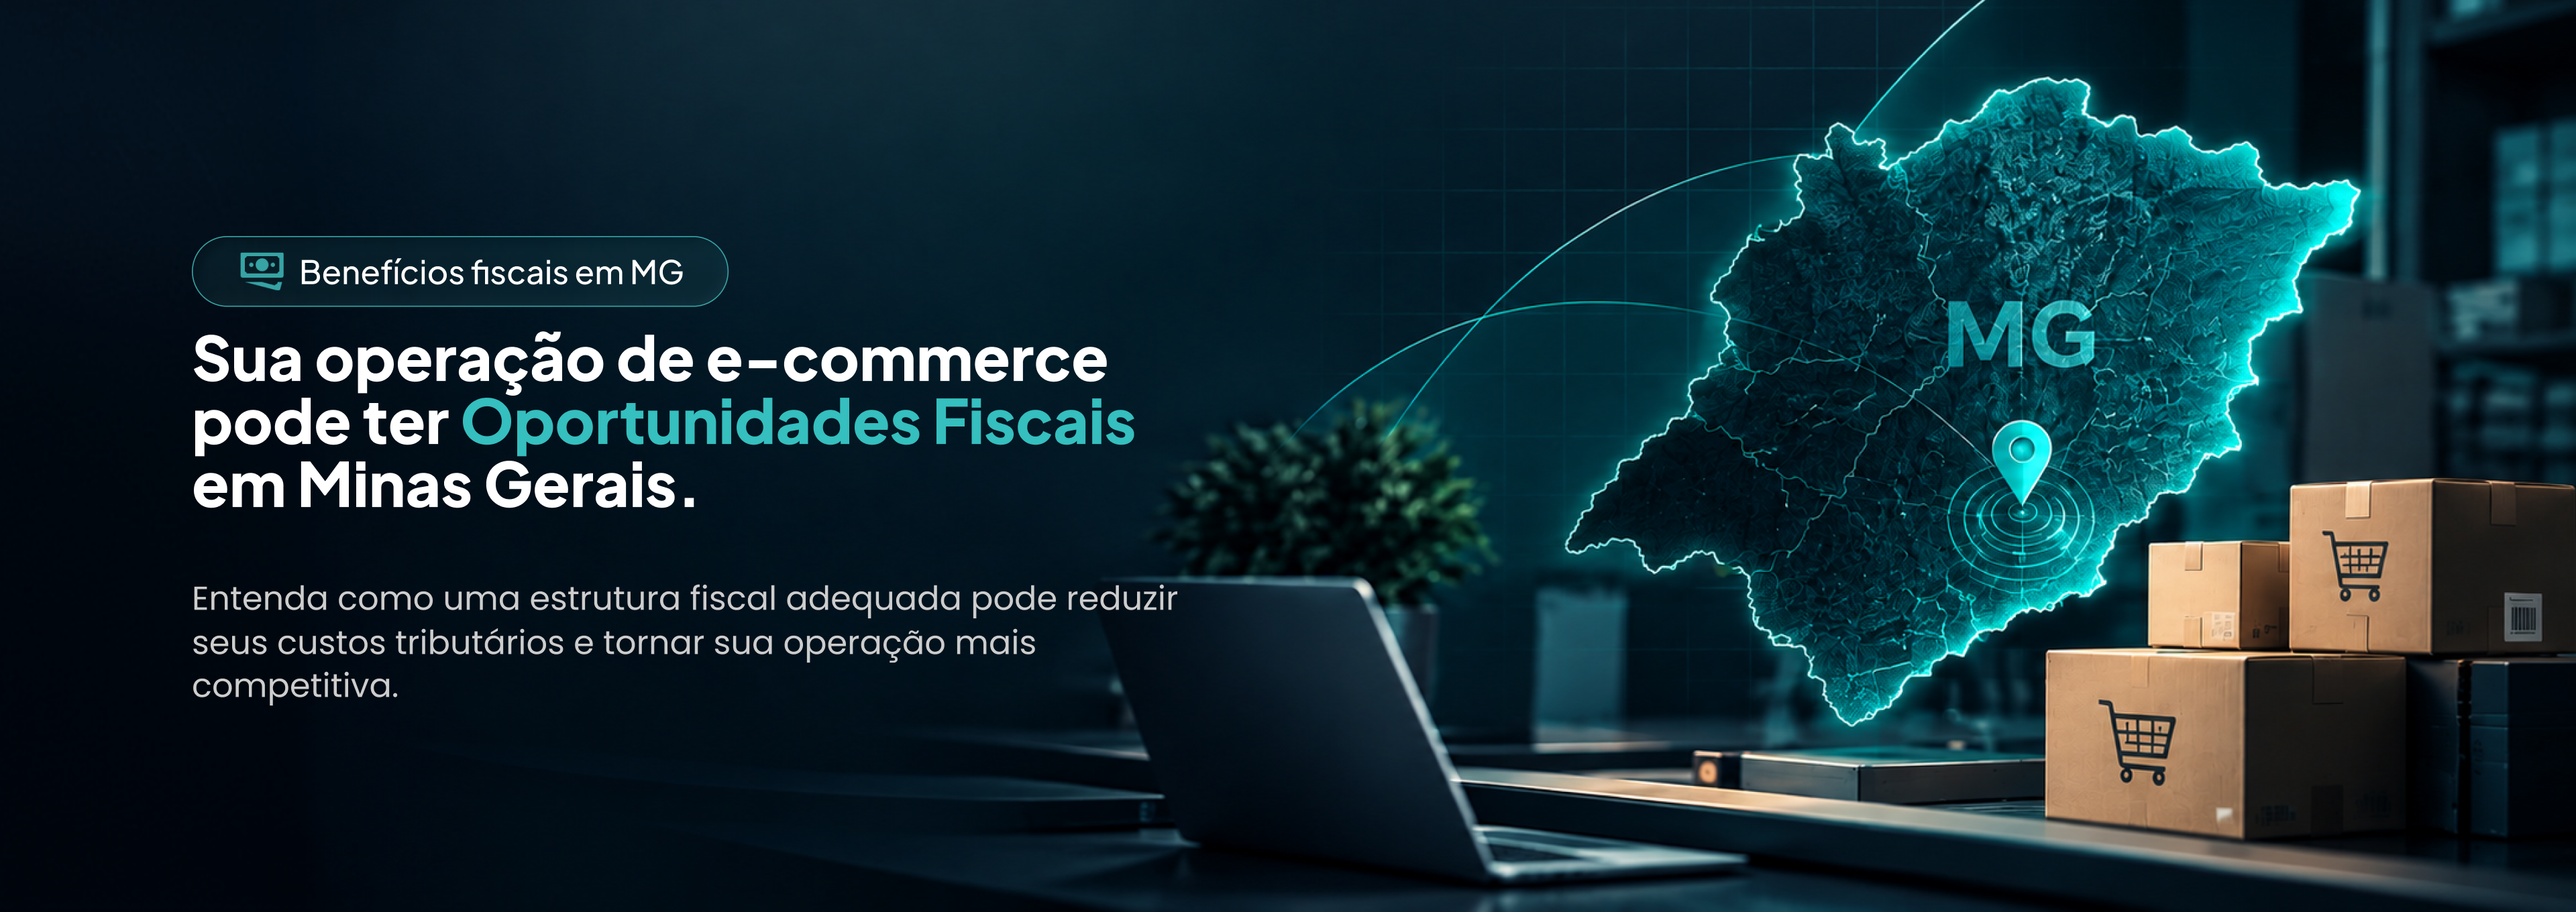
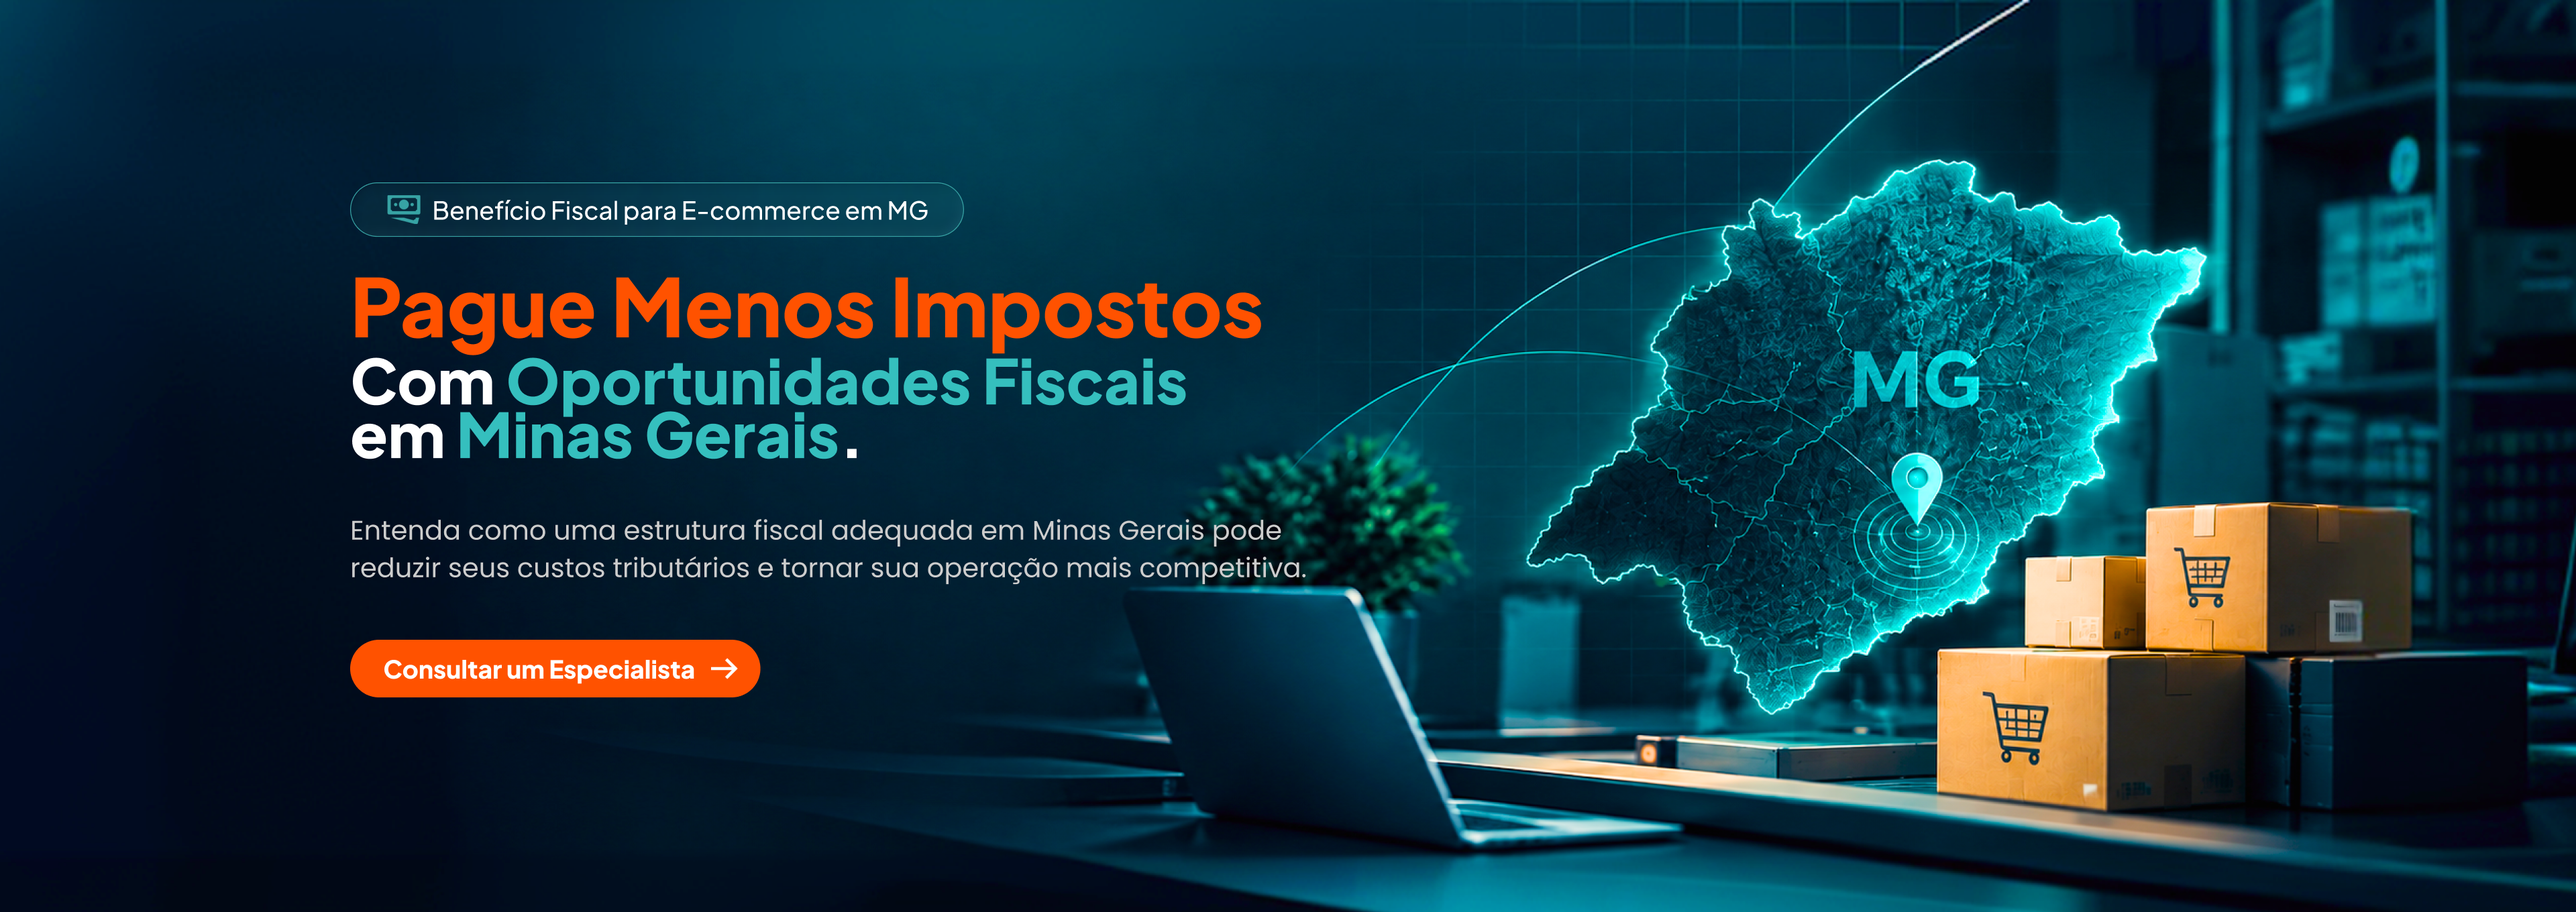
feat: refine hero and WhatsApp entry point

diff --git a/src/app/page.tsx b/src/app/page.tsx
@@ -4,7 +4,7 @@ import { Faq } from "@/components/faq";
 const whatsapp = process.env.NEXT_PUBLIC_WHATSAPP_URL;
 const scheduling = process.env.NEXT_PUBLIC_SCHEDULING_URL;
 const closingWhatsapp = `https://wa.me/5511980883377?text=${encodeURIComponent(
-  "Olá! Quero agendar um diagnóstico gratuito da minha operação de ecommerce.",
+  "Olá! Quero agendar um diagnóstico gratuito da minha operação de E-commerce.",
 )}`;
 
 function Arrow() {
@@ -65,7 +65,7 @@ const expertise = [
 const services = [
   [
     "Contabilidade especializada",
-    "Rotinas contábeis estruturadas para empresas que vivem o ecommerce.",
+    "Rotinas contábeis estruturadas para empresas que vivem o E-commerce.",
   ],
   [
     "Fiscal e tributário",
@@ -135,7 +135,7 @@ export default function HomePage() {
           </div>
           <div
             className="hero-art intro-art"
-            aria-label="Uma operação de ecommerce conectada"
+            aria-label="Uma operação de E-commerce conectada"
           >
             <div className="grid" />
             <div className="orbit orbit-a" />
@@ -184,7 +184,7 @@ export default function HomePage() {
             <div>
               <p className="marker">Conhecimento aplicado à rotina.</p>
               <h2 id="special-title">
-                Seu contador entende de ecommerce ou apenas recebe suas notas?
+                Seu contador entende de E-commerce ou apenas recebe suas notas?
               </h2>
             </div>
             <p>
@@ -216,7 +216,7 @@ export default function HomePage() {
                   A operação inteira, não um problema isolado.
                 </p>
                 <h2 id="whole-title">
-                  Uma operação de ecommerce não deveria ser tratada como uma
+                  Uma operação de E-commerce não deveria ser tratada como uma
                   empresa qualquer.
                 </h2>
               </div>
@@ -292,7 +292,7 @@ export default function HomePage() {
             <div className="seller-card__image">
               <Image
                 src="/images/seller-operator.png"
-                alt="Operação de ecommerce em uma estação de expedição"
+                alt="Operação de E-commerce em uma estação de expedição"
                 fill
                 sizes="(max-width: 800px) calc(100vw - 94px), 34vw"
               />
@@ -329,7 +329,7 @@ export default function HomePage() {
             <div className="seller-card__image">
               <Image
                 src="/images/seller-operation.png"
-                alt="Rotina de expedição com itens de ecommerce organizados"
+                alt="Rotina de expedição com itens de E-commerce organizados"
                 fill
                 sizes="(max-width: 800px) calc(100vw - 94px), 34vw"
               />
@@ -351,19 +351,19 @@ export default function HomePage() {
           <h2 id="authority-title">
             Experiência contábil.
             <br />
-            <em>Vivência de ecommerce.</em>
+            <em>Vivência de E-commerce.</em>
           </h2>
           <div className="facts">
             <div>
-              <b>+20 anos</b>
-              <span>de experiência contábil</span>
+              <b>Com mais de 20 anos</b>
+              <span>em experiência como seller</span>
             </div>
             <div>
-              <b>Seller + Contador</b>
-              <span>visão dos dois lados da operação</span>
+              <b>Seller + Contador + Tributarista</b>
+              <span>visão dos dois lados da sua operação</span>
             </div>
             <div>
-              <b>Ecommerce e Marketplaces</b>
+              <b>E-commerce e Marketplaces</b>
               <span>
                 especialização no ambiente em que nossos clientes vendem
               </span>
@@ -386,7 +386,7 @@ export default function HomePage() {
               Trabalhamos com os principais marketplaces do Brasil.
             </h2>
             <p>
-              Especialização contábil para ecommerce que vende nos principais
+              Especialização contábil para E-commerce que vende nos principais
               canais digitais.
             </p>
           </div>
@@ -518,7 +518,7 @@ export default function HomePage() {
             </a>
             <p>
               Contabilidade especializada para quem vende, integra e cresce no
-              ecommerce.
+              E-commerce.
             </p>
             <div className="socials">
               <a href="#inicio" aria-label="Facebook">
@@ -586,7 +586,7 @@ export default function HomePage() {
             </div>
             <div>
               <h3>Serviços</h3>
-              <a href="#especializacao">Contabilidade para ecommerce</a>
+              <a href="#especializacao">Contabilidade para E-commerce</a>
               <a href="#especializacao">Fiscal e tributário</a>
               <a href="#especializacao">ERP e integrações</a>
               <a href="#especializacao">Marketplaces</a>
@@ -611,6 +611,22 @@ export default function HomePage() {
           </div>
         </div>
       </footer>
+      <a
+        className="whatsapp-float"
+        href={closingWhatsapp}
+        target="_blank"
+        rel="noreferrer"
+        aria-label="Agendar um diagnóstico pelo WhatsApp"
+      >
+        <Image
+          src="/images/whatsapp-icon.svg"
+          alt=""
+          aria-hidden="true"
+          width={32}
+          height={32}
+          unoptimized
+        />
+      </a>
     </main>
   );
 }

diff --git a/src/app/globals.css b/src/app/globals.css
@@ -6,7 +6,7 @@
 
 /* Specialization */
 section.special {
-  background: var(--ink);
+  background: #23353e;
   color: #fff;
 }
 section.special .special-head {
@@ -252,6 +252,55 @@ section.marketplaces {
   }
   .marketplaces__heading > p:last-child {
     font-size: 16px;
+  }
+}
+
+/* Floating WhatsApp CTA */
+.whatsapp-float {
+  position: fixed;
+  right: 28px;
+  bottom: 28px;
+  z-index: 30;
+  display: grid;
+  width: 60px;
+  height: 60px;
+  place-items: center;
+  border-radius: 50%;
+  background: #25d366;
+  box-shadow: 0 12px 24px #12272b42;
+  transition:
+    background 0.2s ease,
+    box-shadow 0.2s ease,
+    transform 0.2s ease;
+}
+.whatsapp-float img {
+  width: 32px;
+  height: 32px;
+}
+.whatsapp-float:hover {
+  background: #20bd5b;
+  box-shadow: 0 16px 30px #12272b56;
+  transform: translateY(-3px);
+}
+.whatsapp-float:focus-visible {
+  outline: 3px solid var(--orange);
+  outline-offset: 4px;
+}
+@media (max-width: 650px) {
+  .whatsapp-float {
+    right: 18px;
+    bottom: 18px;
+    width: 58px;
+    height: 58px;
+  }
+  .whatsapp-float img {
+    width: 31px;
+    height: 31px;
+  }
+}
+@media (prefers-reduced-motion: reduce) {
+  .whatsapp-float {
+    transition: none;
   }
 }
 
@@ -1326,7 +1375,8 @@ section.ecosystem {
 /* -------------------------------------------------------------------------- */
 
 :root {
-  --ink: #263238;
+  --ink: #223239;
+  --light-ink: #293d48;
   --closing-bg: #273238;
   --teal: #37a3a4;
   --orange: #ff5200;
@@ -1773,7 +1823,7 @@ p {
     min-height: 174px;
     margin-bottom: 10vh;
     padding: clamp(27px, 3vw, 38px);
-    background: #2b393d;
+    background: var(--light-ink);
     border: 1px solid #ffffff20;
     border-radius: 16px;
     box-shadow: 0 18px 34px #111a1e3b;
@@ -2164,7 +2214,7 @@ p {
 /* Final call to action */
 .closing {
   padding-block: clamp(96px, 12vw, 170px);
-  background: #1d2a30;
+  background: var(--light-ink);
   color: #fff;
   text-align: center;
 }

diff --git a/README.md b/README.md
@@ -179,3 +179,9 @@ Em producao, coloque Nginx ou Caddy na frente do Next.js para terminar HTTPS, en
 - Adicionada uma CTA para analise operacional na secao de vivencia de seller.
 - Ajustados espacamento, icones e numeracao dos cards de especializacao para reforcar a leitura da sequencia.
 - Incluidos assets de logos em caixa para os principais marketplaces, incluindo TikTok Shop.
+
+### Atualizacao visual e WhatsApp
+
+- Atualizados banners da hero e arquivos editoriais relacionados a campanhas da Ecomtabil.
+- Refinadas cores das superfícies escuras e textos de posicionamento para manter consistência na comunicação de E-commerce.
+- Adicionado atalho flutuante de WhatsApp com ícone oficial local, levando ao mesmo diagnóstico com mensagem pré-preenchida usado nos CTAs da página.
